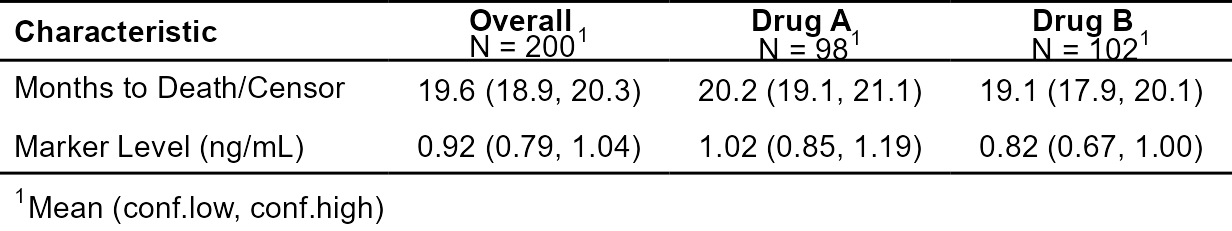
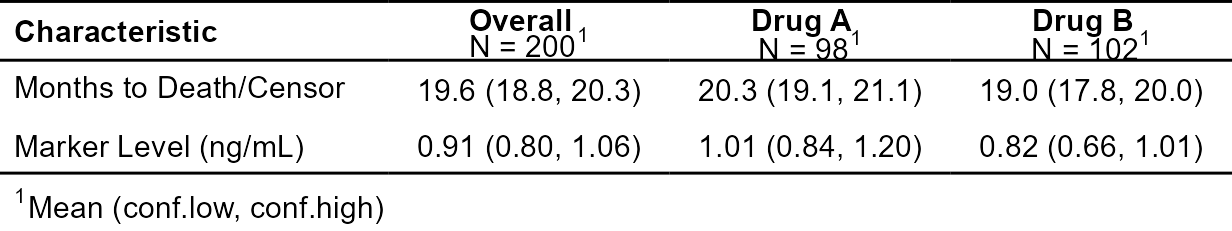
Updated readme and description

diff --git a/README.md b/README.md
@@ -1,7 +1,7 @@
 
 <!-- README.md is generated from README.Rmd. Please edit that file -->
 
-# bootgcompr
+# bootgcompr 0.1.0 (UNDER DEVELOPMENT)
 
 <!-- badges: start -->
 
